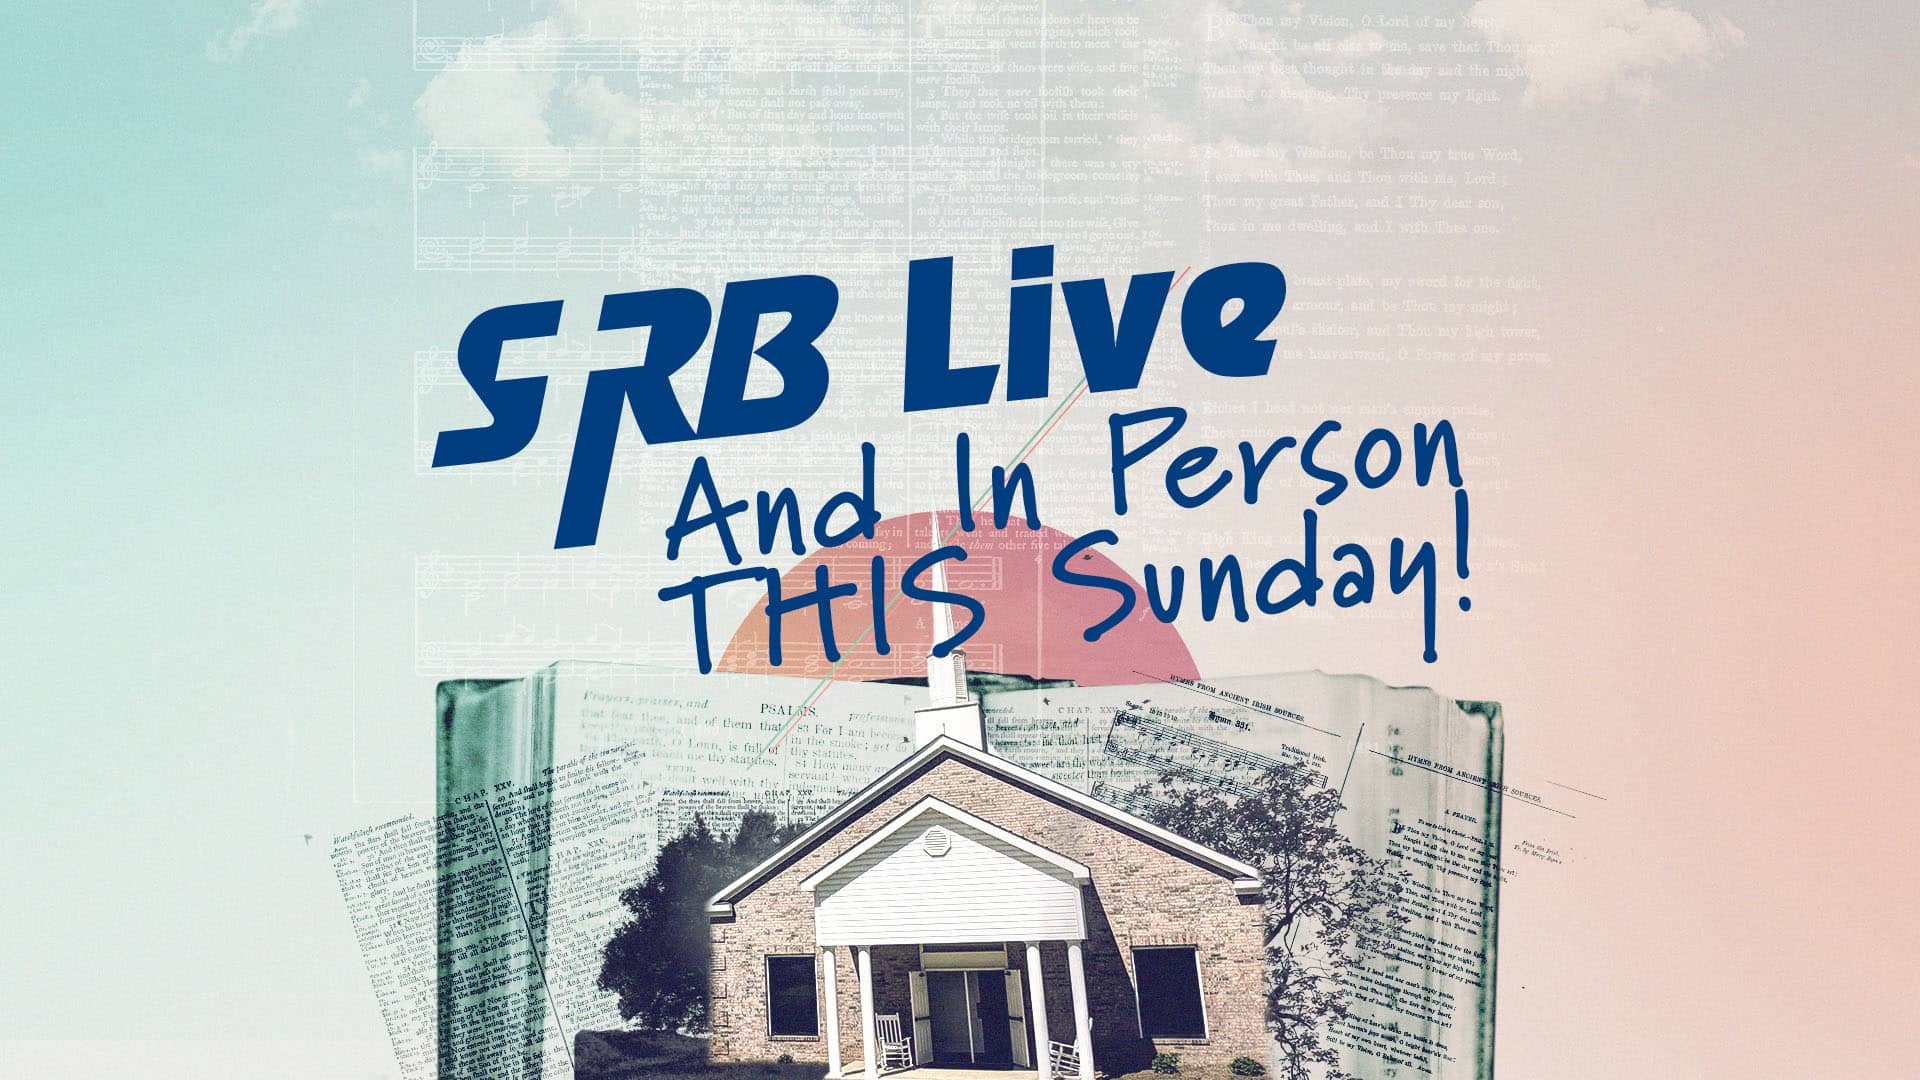
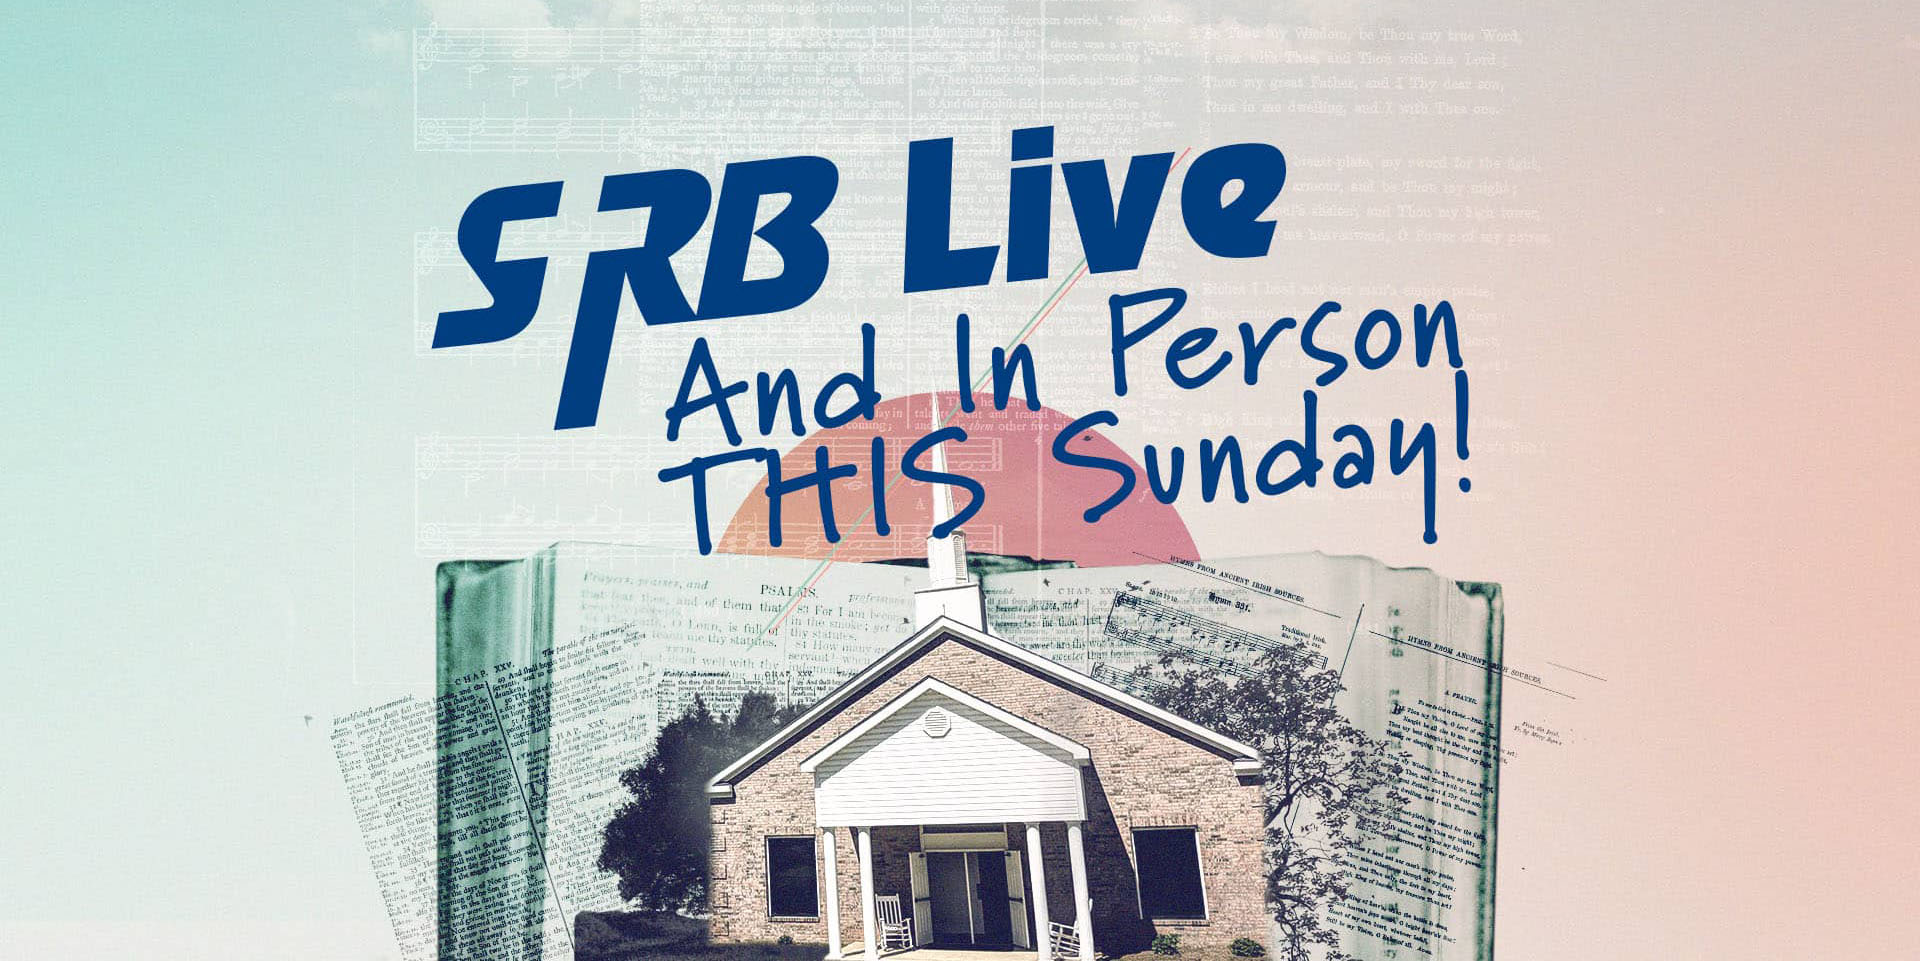
More main image fixes

Changed region(s): [[0.1562, 0.1249, 0.8125, 0.999], [0.2188, 0.0, 0.2812, 0.1249], [0.375, 0.0312, 0.4375, 0.0624]]

diff --git a/pages/index.js b/pages/index.js
@@ -27,18 +27,18 @@ export default function Home() {
         <link rel="icon" href="/favicon.ico" />
       </Head>
       <a href="https://www.youtube.com/channel/UCSaSFpr8E-PMYfi1QoqwVuw/live">
-        <div className="w-full bg-black text-center min-h-1/4 xs:min-h-1/4 md:min-h-1/2 xl:min-h-screen">
+        <div className="bg-white text-center min-h-1/4 xs:min-h-1/4 md:min-h-fit">
           <ExportedImage
             alt="SRB Live - Join us live on YouTube!"
             src="/img/SRBLive.jpg"
             width={1920}
-            height={1000}
+            height={900}
             objectFit="cover"
             priority={true}
           />
         </div>
       </a>
-      <div className="container my-12 mx-auto px-4 md:px-12">
+      <div className="container my-8 mx-auto px-4 md:px-12">
         <div className="flex flex-wrap -mx-1 lg:-mx-4">
           <Homecard
             title="7155 Schomburg Road"
